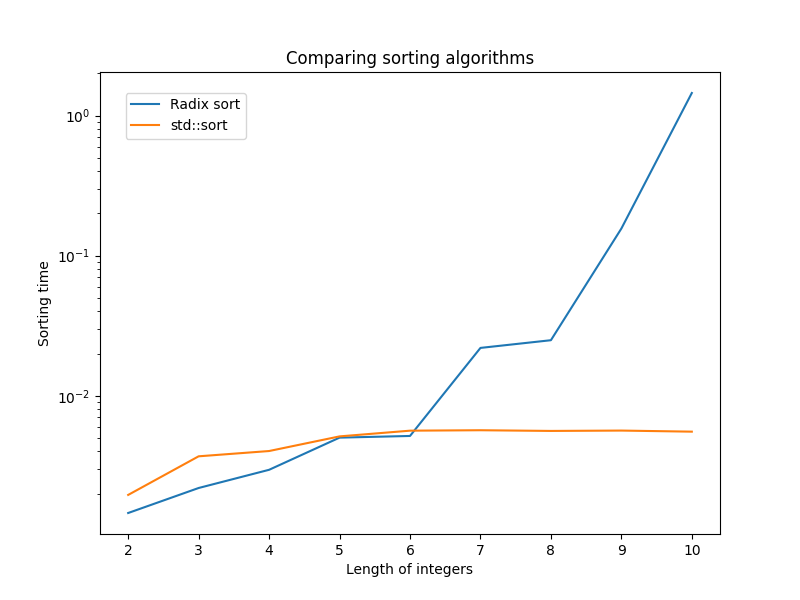
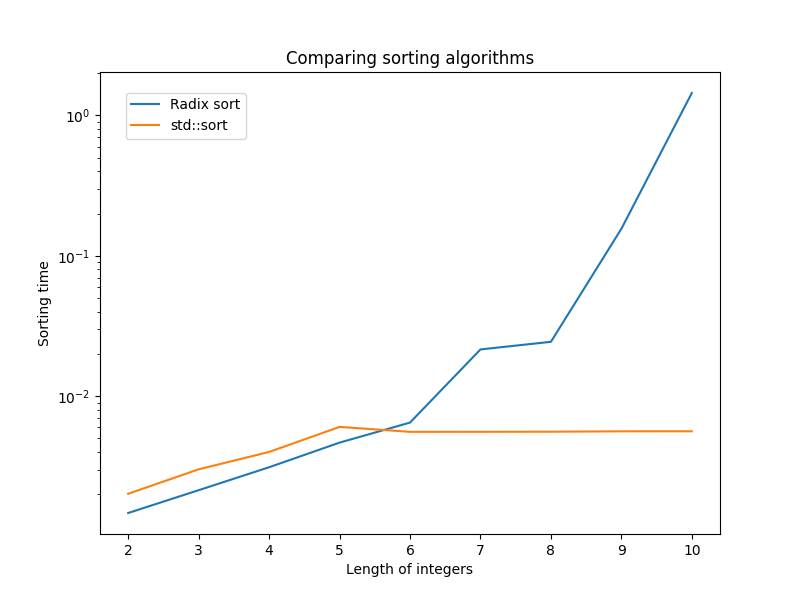
sort testing fixed

diff --git a/task_2_2/test.py b/task_2_2/test.py
@@ -45,12 +45,9 @@ with open(os.path.join(os.path.dirname(__file__), "tests_shuffle.txt"), "r") as 
         a.sort()
         
         for i in range(0, size * shuffle_val // 100):
-            a[random.randint(1, size - 1)] = random.randint(min_val, max_val)
+            a[random.randint(0, size - 1)] = random.randint(min_val, max_val)
         
         a = [size, *a]
-        
-        for i in range(0, size * shuffle_val // 100):
-            a[random.randint(0, size - 1)] = random.randint(min_val, max_val)
         
         result = subprocess.run([os.path.join(os.path.dirname(__file__), "./task_2_2"), os.path.join(os.path.dirname(__file__), "plots_data_shuffle.csv"), str(shuffle_val)],
                                 input=" ".join(list(map(str, a))),
